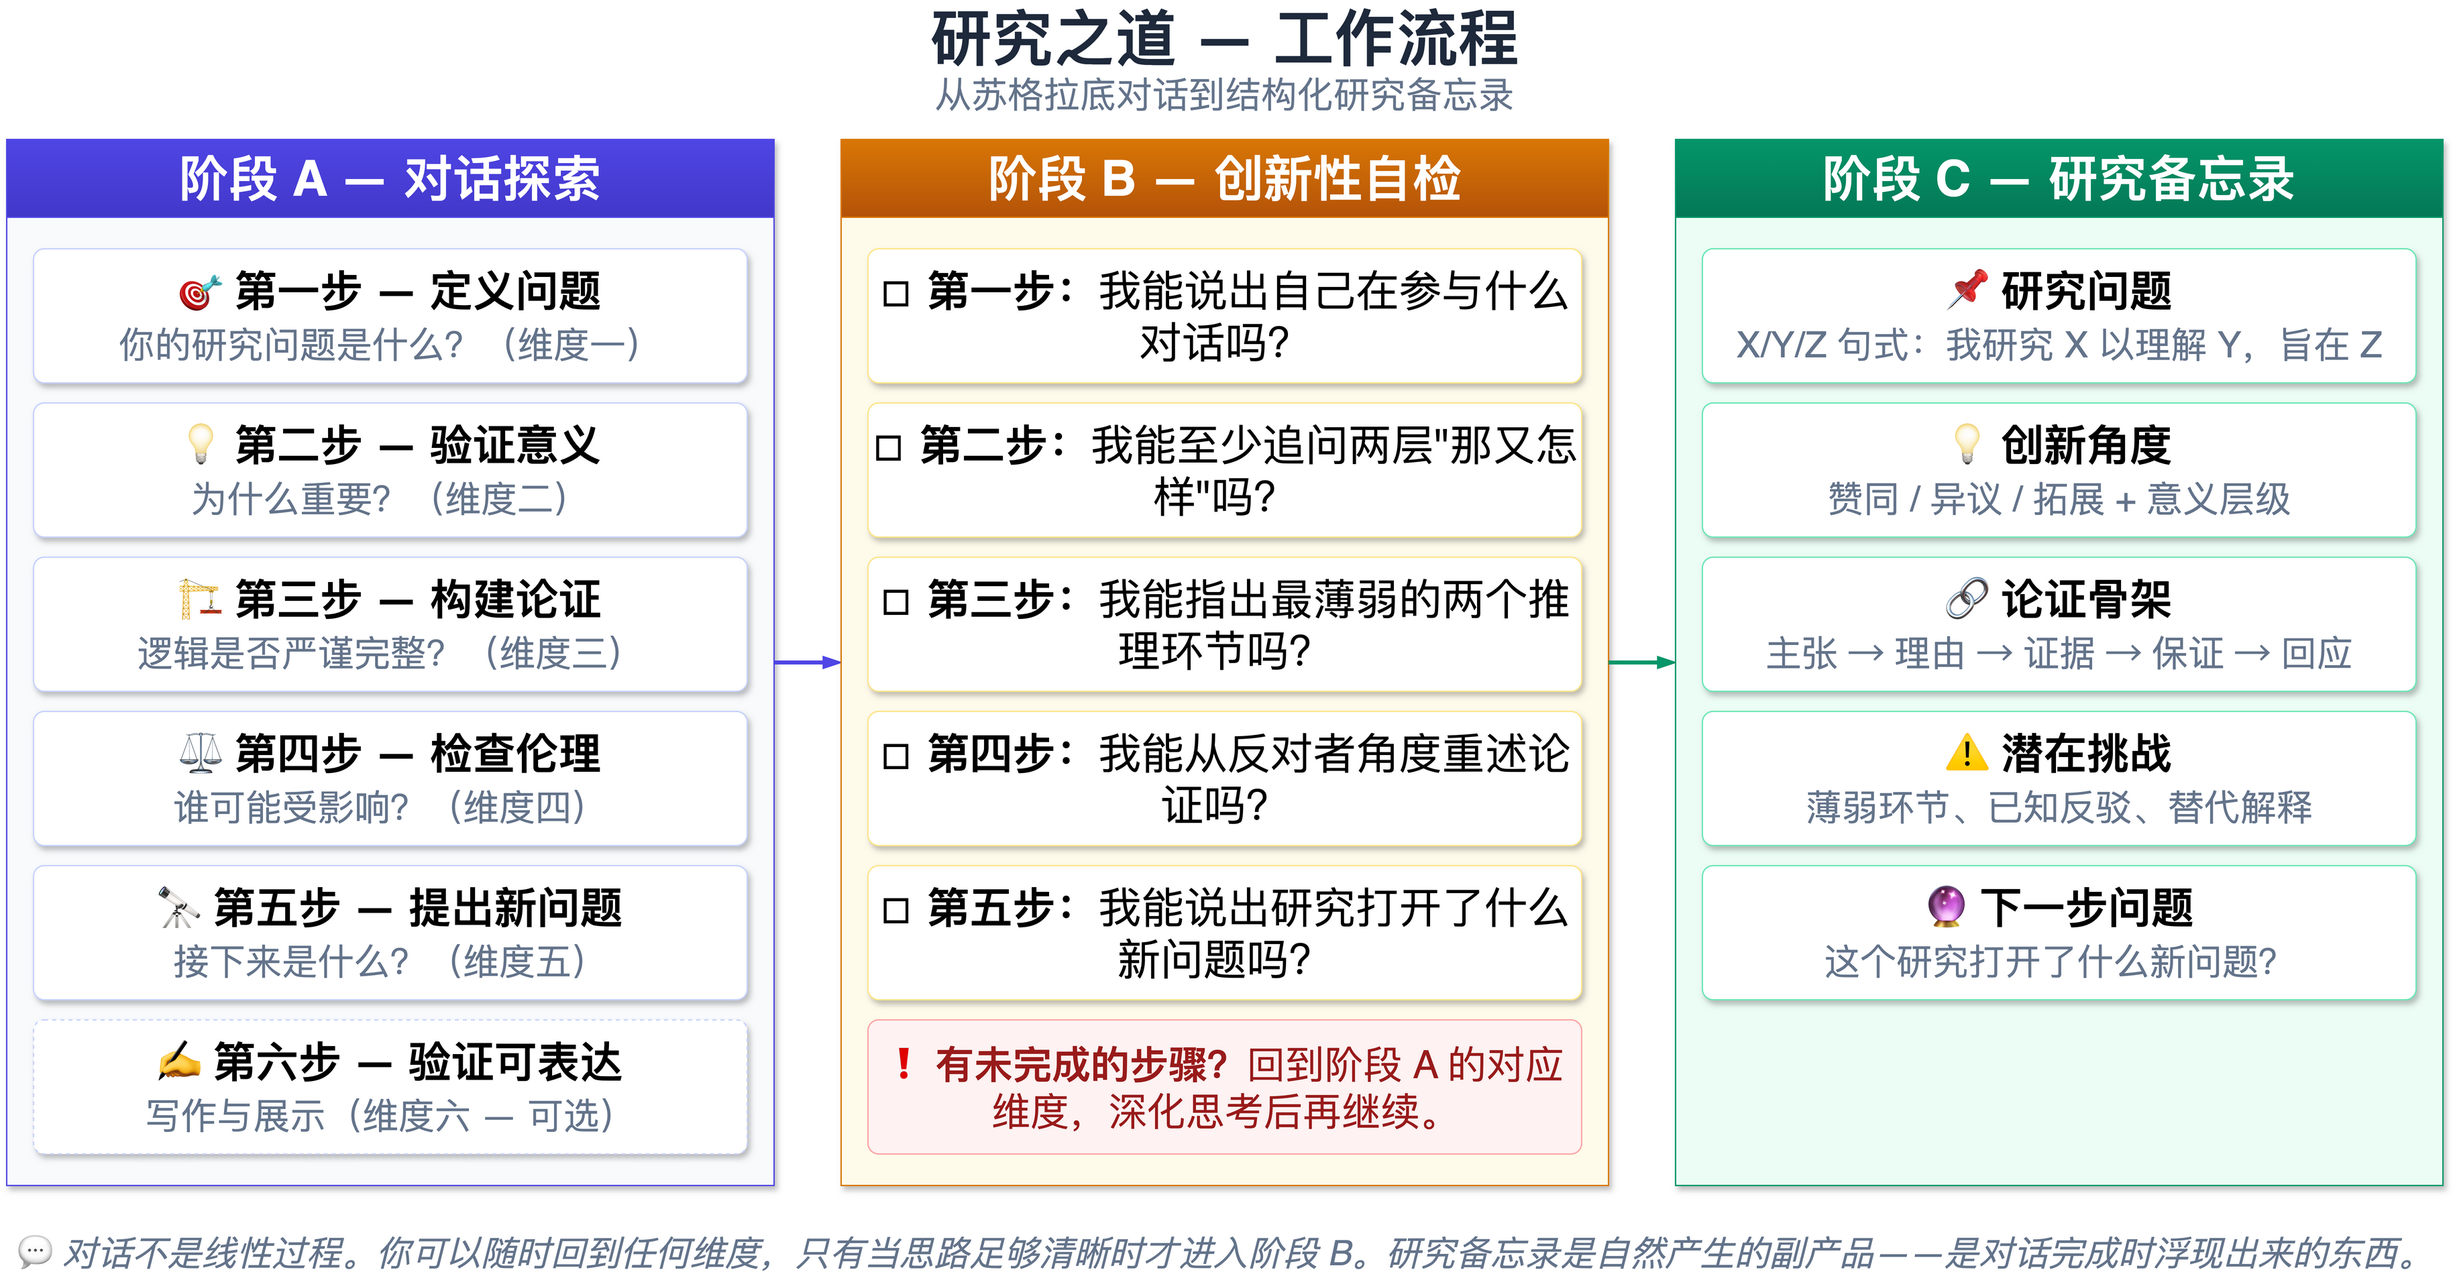
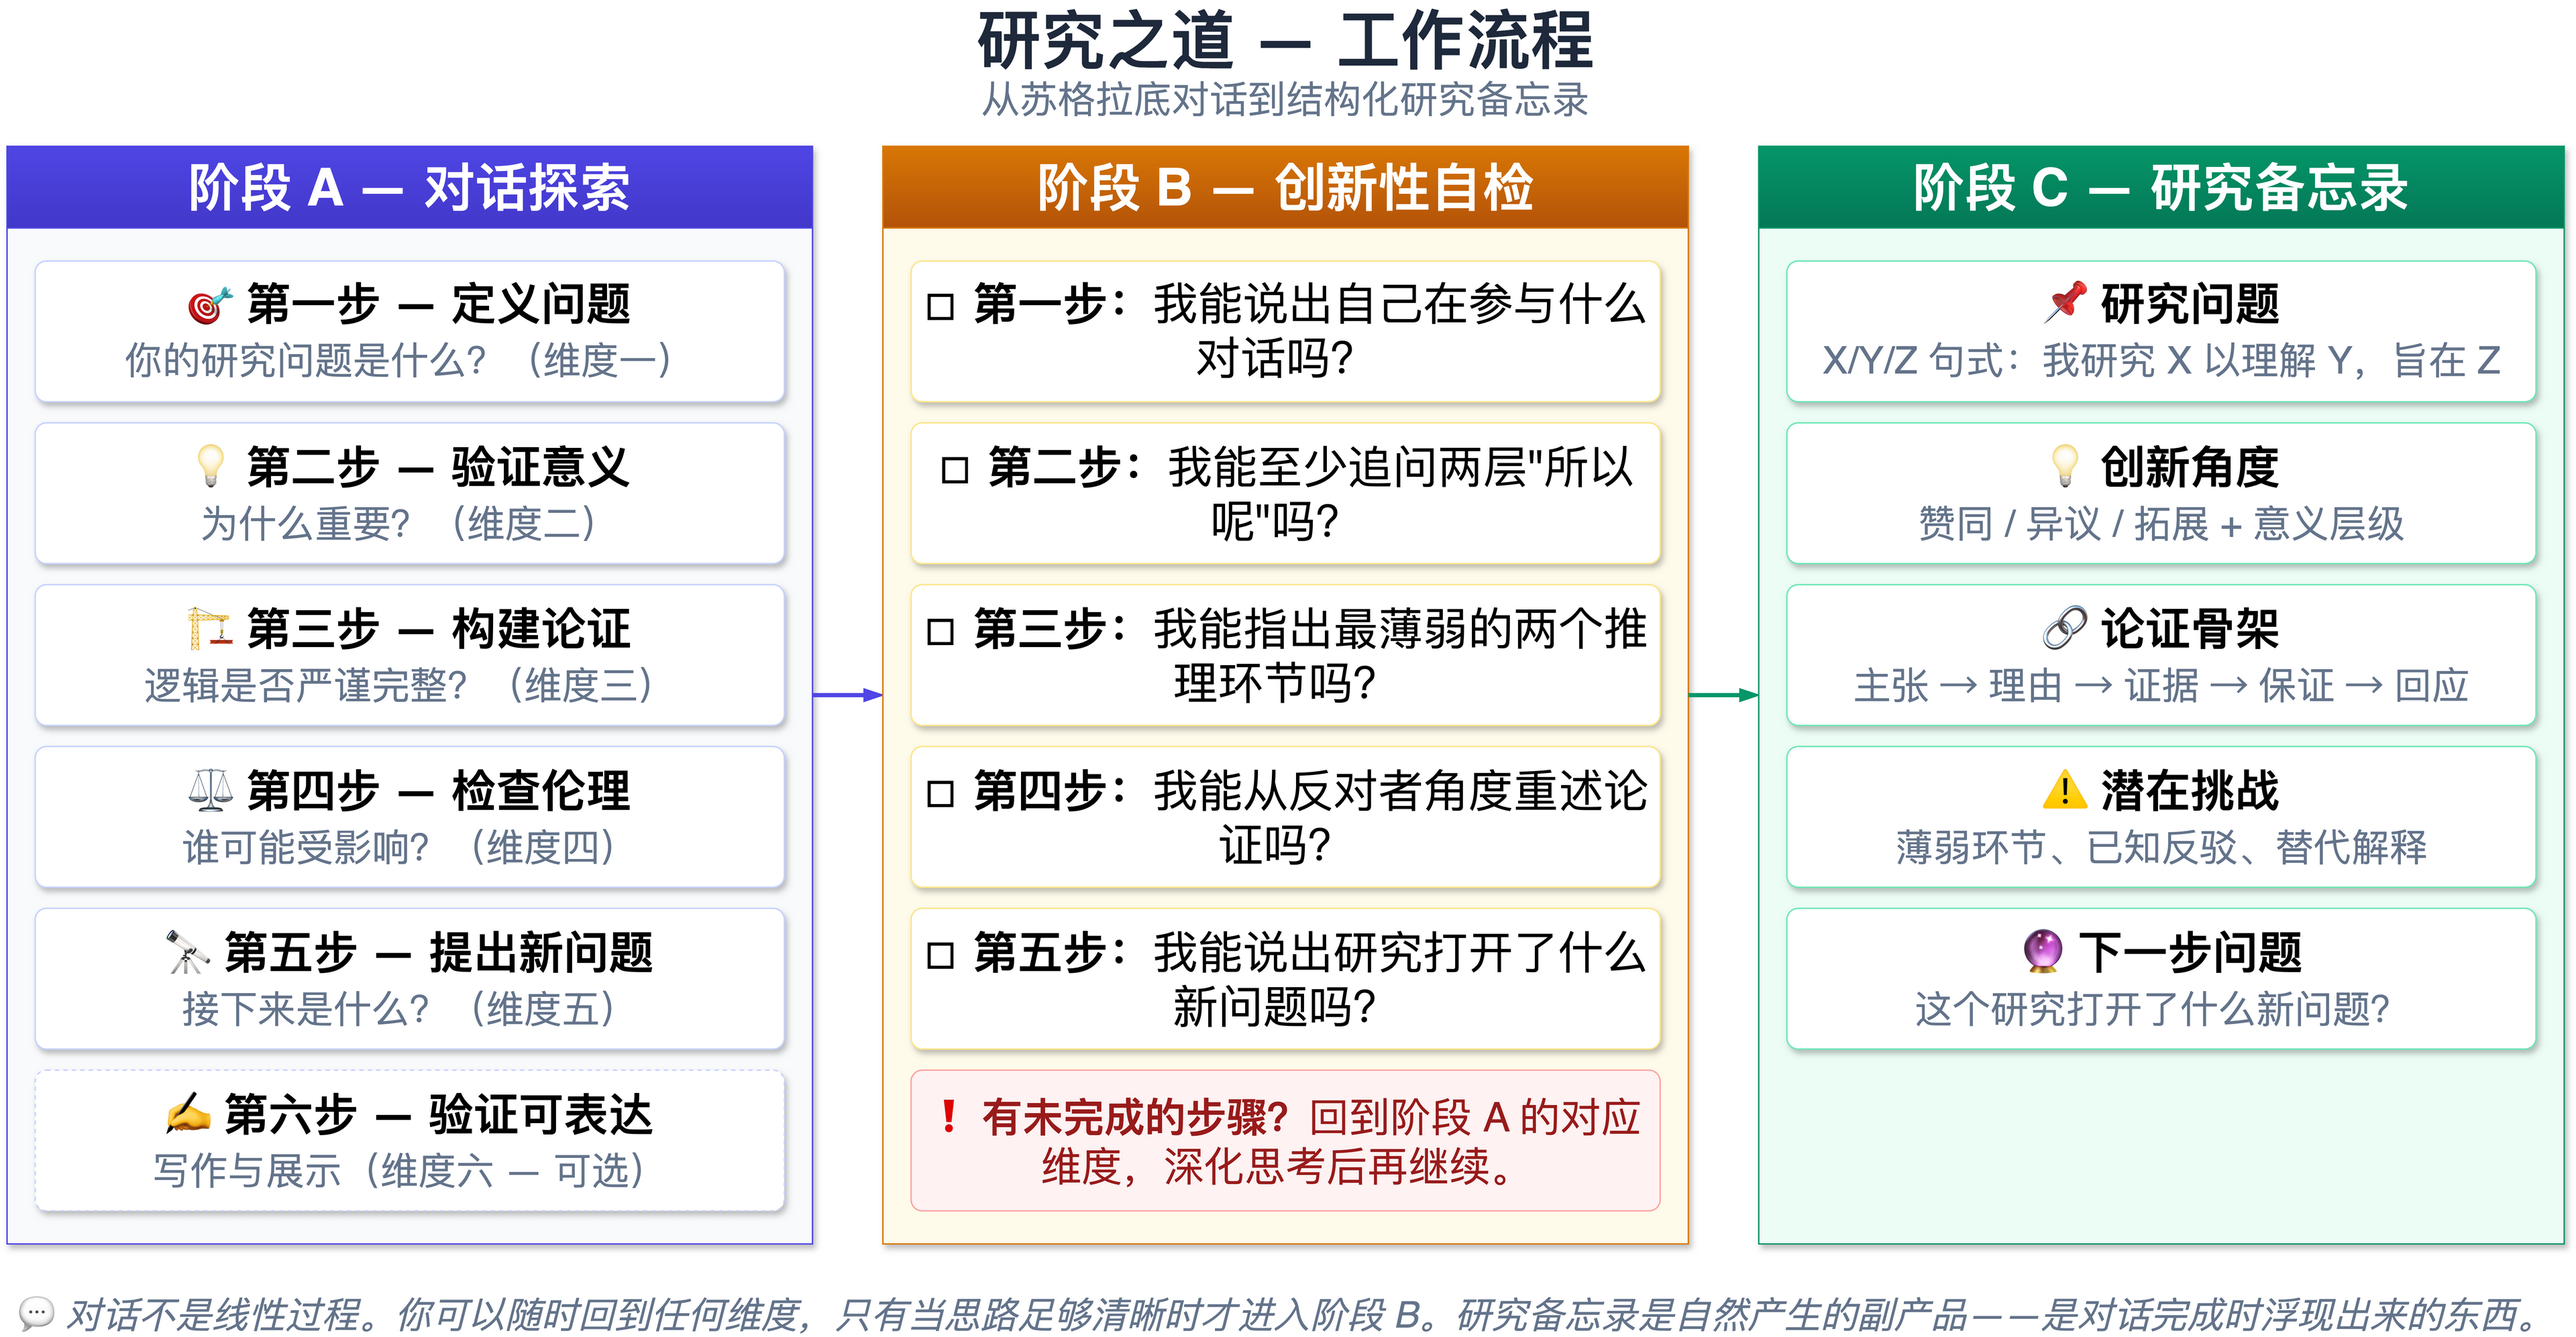
unify zh translations: Warrant→保证, 那又怎样→所以呢, 推理担保→保证
- skills/SKILL-zh.md: 推理担保→保证 (10 occurrences)
- examples/science-zh.md: 推理担保→保证 (2 occurrences)
- examples/humanities-zh.md: terminology alignment
- images/workflow-zh.drawio: 那又怎样→所以呢, 推理担保→保证
- images/workflow-zh.png: re-exported to match drawio
- README.md: alignment fixes

diff --git a/README.md b/README.md
@@ -51,8 +51,6 @@ The skill guides you through three phases. Dialogue exploration builds clarity; 
 
 ![Craft of Research — Workflow (English)](images/workflow-en.png)
 
-The dialogue is **not** a linear form-filling exercise. You loop between steps, revisit earlier dimensions, and only move to Phase B when your thinking feels solid enough. The research memo is a natural byproduct — not the goal, but what emerges when the conversation has done its work.
-
 ### How to Use
 
 Invoke the skill with the trigger command:
@@ -153,8 +151,6 @@ This project is for educational and research purposes only.
 技能通过三个阶段引导。对话探索建立思路清晰度；创新性自检确认就绪；结构化备忘录产出一份可归档的成果。
 
 ![Craft of Research — Workflow (中文)](images/workflow-zh.png)
-
-对话**不是**线性填表。你可以在各步之间来回跳转，随时回到前面的维度重新审视，直到思路足够清晰再进入 Phase B。研究备忘录是对话自然产生的副产品——不是目标，而是对话完成时浮现的东西。
 
 ### 怎么用
 
